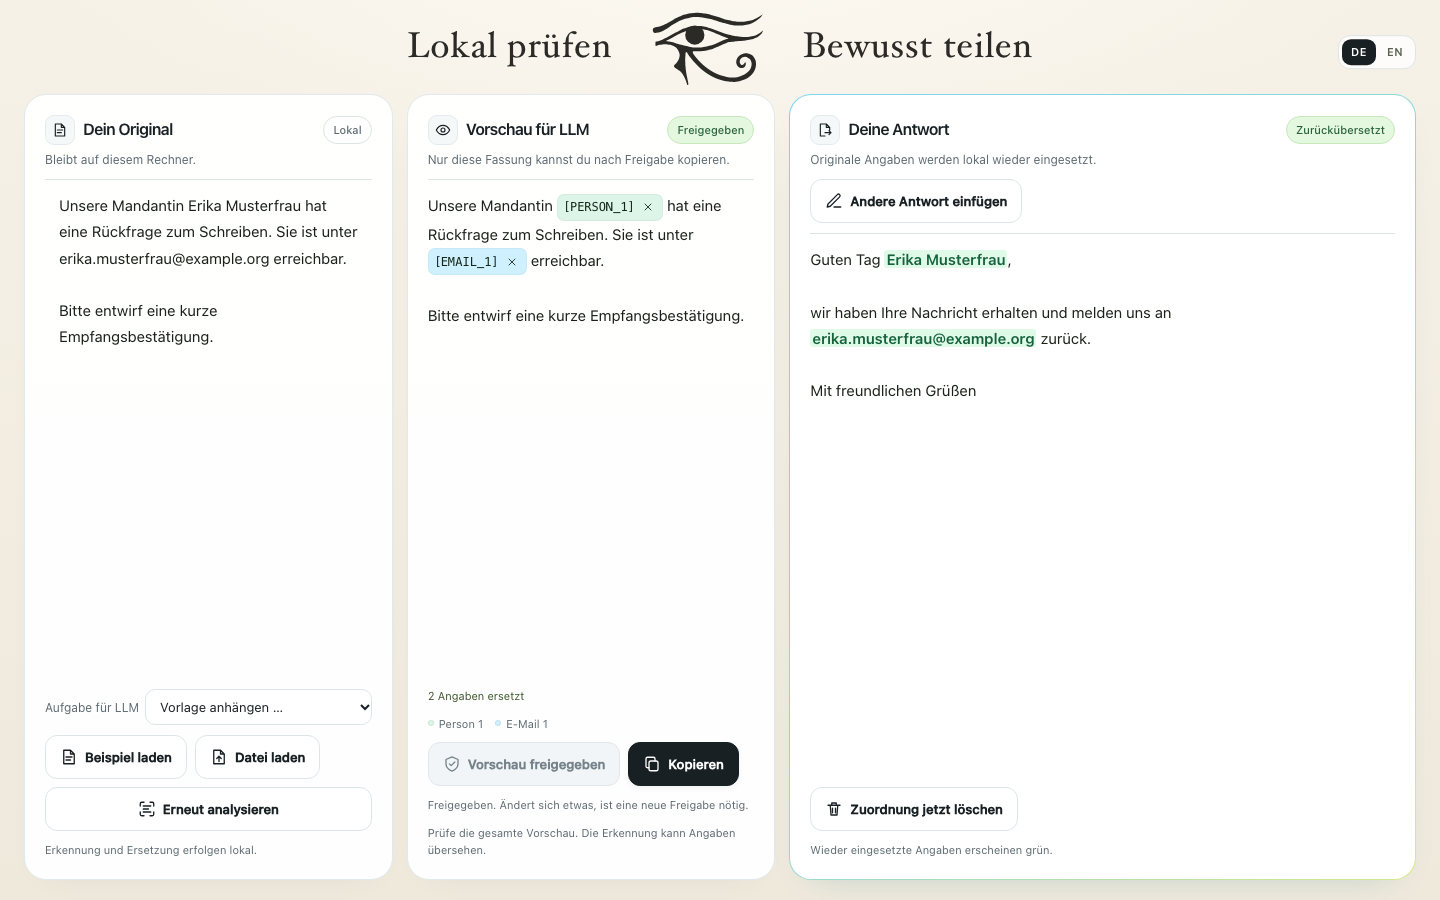
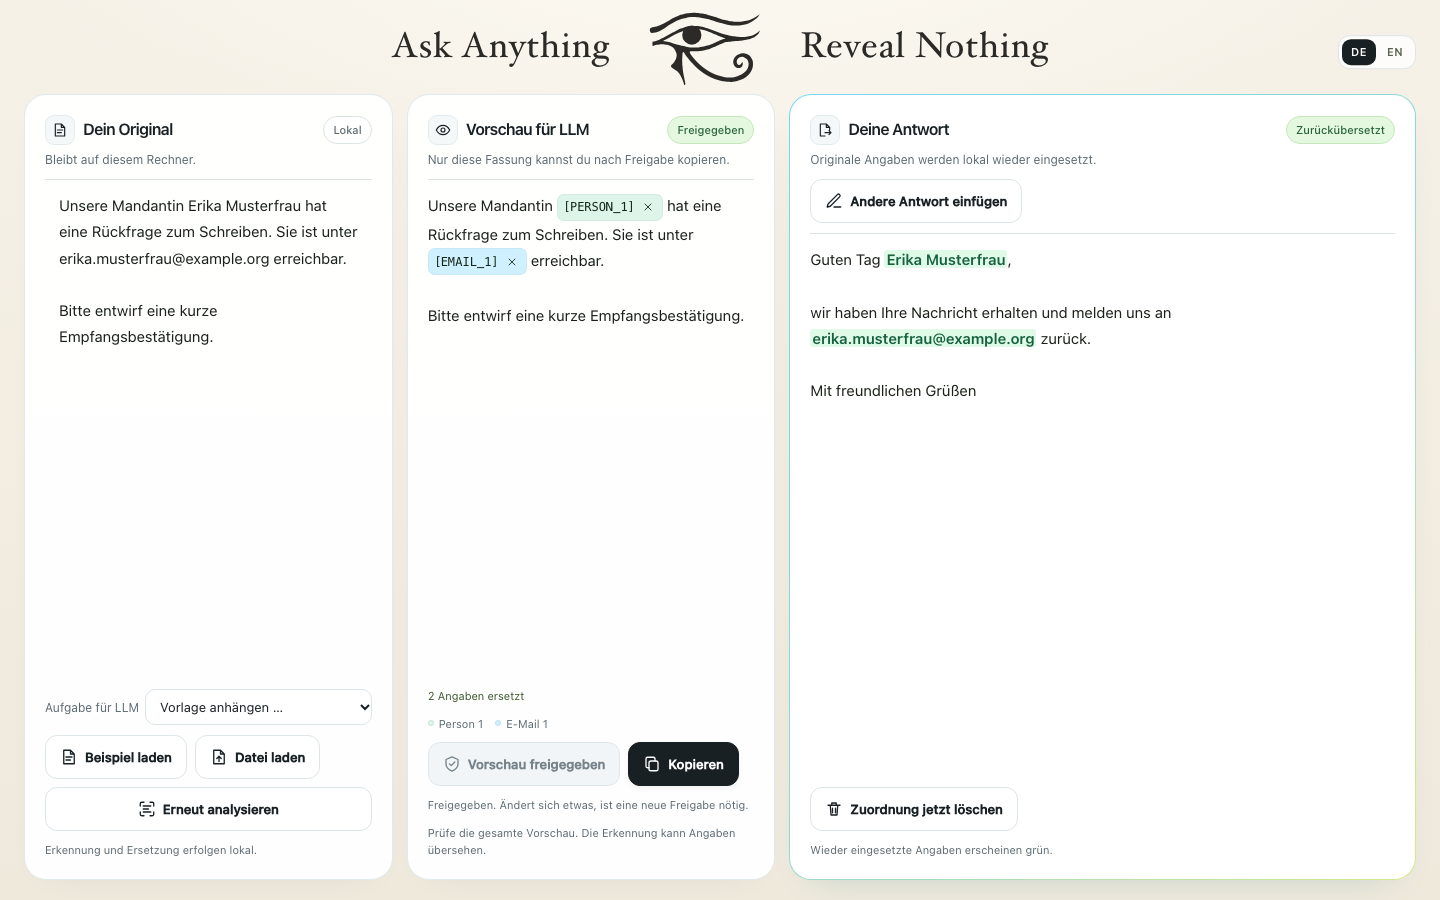
Englische Überschrift in beiden Sprachansichten beibehalten

Changed region(s): [[0.2812, 0.0, 0.5312, 0.0933], [0.5625, 0.0311, 0.7188, 0.0622]]

diff --git a/web/static/index.html b/web/static/index.html
@@ -185,9 +185,9 @@
 <div class="workspace">
   <div class="intro">
     <h1 class="sr-only" data-i18n="pageTitle">Text pseudonymisieren</h1>
-    <p class="headline">
+    <p class="headline" lang="en">
       <!-- Die Wörter bleiben lesbar: Ein Absatz darf laut ARIA keinen eigenen Namen tragen, manche Screenreader übergehen das aria-label. -->
-      <span data-i18n="headlineReview">Lokal prüfen</span>
+      <span>Ask Anything</span>
       <!-- Inhalt von web/assets/horus-auge.svg unverändert eingebettet: Der Server liefert nur diese Datei aus. -->
       <span class="headline-eye" aria-hidden="true"><svg xmlns="http://www.w3.org/2000/svg" viewBox="98 94 834 552" role="img" aria-label="Horus-Auge" data-i18n-aria="eyeLabel">
   <!-- Horus-Auge (Udjat), Tinte über currentColor, nach Pauls Vorlage nachgezeichnet -->
@@ -195,7 +195,7 @@
   <path fill="currentColor" fill-rule="evenodd" d="M125 316 C126.7 310.8 130 316.2 135 315 C140 313.8 148.3 311.3 155 309 C161.7 306.7 168.3 304 175 301 C181.7 298 188.3 294.3 195 291 C201.7 287.7 208.3 284.5 215 281 C221.7 277.5 228.3 273.7 235 270 C241.7 266.3 248.3 262.8 255 259 C261.7 255.2 268.3 250.7 275 247 C281.7 243.3 288.3 240.3 295 237 C301.7 233.7 308.3 230.2 315 227 C321.7 223.8 328.3 220.7 335 218 C341.7 215.3 348.3 213.2 355 211 C361.7 208.8 368.3 206.7 375 205 C381.7 203.3 388.3 202 395 201 C401.7 200 408.3 199.5 415 199 C421.7 198.5 428.3 198 435 198 C441.7 198 448.3 198.5 455 199 C461.7 199.5 468.3 200 475 201 C481.7 202 488.3 203.5 495 205 C501.7 206.5 508.3 208.2 515 210 C521.7 211.8 528.3 213.8 535 216 C541.7 218.2 548.3 220.7 555 223 C561.7 225.3 568.3 227.5 575 230 C581.7 232.5 588.3 235.5 595 238 C601.7 240.5 608.3 242.7 615 245 C621.7 247.3 628.3 249.8 635 252 C641.7 254.2 648.3 256 655 258 C661.7 260 668.3 262.2 675 264 C681.7 265.8 688.3 267.5 695 269 C701.7 270.5 708.3 271.8 715 273 C721.7 274.2 728.3 275 735 276 C741.7 277 748.3 278.3 755 279 C761.7 279.7 768.3 279.7 775 280 C781.7 280.3 788.3 281 795 281 C801.7 281 808.3 280.7 815 280 C821.7 279.3 828.3 278.2 835 277 C841.7 275.8 848.3 274.7 855 273 C861.7 271.3 868.3 269.7 875 267 C881.7 264.3 888.8 260.7 895 257 C901.2 253.3 906.7 249 912 245 C917.3 241 926.3 231.2 927 233 C927.7 234.8 921.3 249 916 256 C910.7 263 901.8 269.8 895 275 C888.2 280.2 881.7 283.7 875 287 C868.3 290.3 861.7 292.8 855 295 C848.3 297.2 841.7 298.5 835 300 C828.3 301.5 821.7 302.8 815 304 C808.3 305.2 801.7 306.2 795 307 C788.3 307.8 781.7 308.3 775 309 C768.3 309.7 761.7 310.5 755 311 C748.3 311.5 741.7 311.5 735 312 C728.3 312.5 721.7 313.3 715 314 C708.3 314.7 701.7 315.2 695 316 C688.3 316.8 681.7 317.5 675 319 C668.3 320.5 661.7 322.7 655 325 C648.3 327.3 641.7 330.2 635 333 C628.3 335.8 621.7 339 615 342 C608.3 345 601.7 348 595 351 C588.3 354 581.7 357.2 575 360 C568.3 362.8 561.7 365.7 555 368 C548.3 370.3 541.7 372.2 535 374 C528.3 375.8 521.7 377.5 515 379 C508.3 380.5 501.7 382 495 383 C488.3 384 481.7 384.3 475 385 C468.3 385.7 461.7 386.7 455 387 C448.3 387.3 441.7 387 435 387 C428.3 387 420.2 386.5 415 387 C409.8 387.5 405.8 387.5 404 390 C402.2 392.5 402.5 397.8 404 402 C405.5 406.2 409.7 410.3 413 415 C416.3 419.7 420 425 424 430 C428 435 432.7 440 437 445 C441.3 450 445.3 455 450 460 C454.7 465 459.8 470 465 475 C470.2 480 475.3 485 481 490 C486.7 495 492.7 500 499 505 C505.3 510 511.8 515 519 520 C526.2 525 533.7 530 542 535 C550.3 540 558.7 545 569 550 C579.3 555 589.3 560 604 565 C618.7 570 641.8 576.8 657 580 C672.2 583.2 682 583.8 695 584 C708 584.2 720.7 584.2 735 581 C749.3 577.8 769.3 570.2 781 565 C792.7 559.8 798.2 555 805 550 C811.8 545 817.3 540 822 535 C826.7 530 830.2 525 833 520 C835.8 515 837.5 510 839 505 C840.5 500 841.5 495 842 490 C842.5 485 842.7 480 842 475 C841.3 470 840.2 464.8 838 460 C835.8 455.2 833 450.2 829 446 C825 441.8 819.7 437.8 814 435 C808.3 432.2 801.3 429.3 795 429 C788.7 428.7 781.7 430.5 776 433 C770.3 435.5 764.7 439.5 761 444 C757.3 448.5 755 454.8 754 460 C753 465.2 753.7 470.7 755 475 C756.3 479.3 759.2 483.5 762 486 C764.8 488.5 768.5 490.3 772 490 C775.5 489.7 779.8 486.7 783 484 C786.2 481.3 788.7 476.3 791 474 C793.3 471.7 795.7 468.3 797 470 C798.3 471.7 799.5 479.2 799 484 C798.5 488.8 796.5 495 794 499 C791.5 503 788 505.7 784 508 C780 510.3 774.8 512.5 770 513 C765.2 513.5 759.5 512.7 755 511 C750.5 509.3 746.7 506.5 743 503 C739.3 499.5 735.5 494.7 733 490 C730.5 485.3 728.8 480 728 475 C727.2 470 727.3 465 728 460 C728.7 455 729.8 450 732 445 C734.2 440 736.8 434.8 741 430 C745.2 425.2 751.3 419.8 757 416 C762.7 412.2 768.7 409.2 775 407 C781.3 404.8 788.3 403.3 795 403 C801.7 402.7 807.5 403.2 815 405 C822.5 406.8 833 410.2 840 414 C847 417.8 852.5 422.8 857 428 C861.5 433.2 864.3 439.7 867 445 C869.7 450.3 871.7 455 873 460 C874.3 465 874.7 470 875 475 C875.3 480 875.3 485 875 490 C874.7 495 874 500 873 505 C872 510 870.8 515 869 520 C867.2 525 864.7 530 862 535 C859.3 540 856.7 545 853 550 C849.3 555 845 560 840 565 C835 570 829.8 575.2 823 580 C816.2 584.8 810 589.2 799 594 C788 598.8 769.3 605.5 757 609 C744.7 612.5 735.3 613.8 725 615 C714.7 616.2 709.2 616.8 695 616 C680.8 615.2 657.5 613.5 640 610 C622.5 606.5 604.2 600 590 595 C575.8 590 565.3 585 555 580 C544.7 575 536.5 570 528 565 C519.5 560 511.3 555 504 550 C496.7 545 490.5 540 484 535 C477.5 530 470.8 525 465 520 C459.2 515 454.2 510 449 505 C443.8 500 438.8 495 434 490 C429.2 485 424.7 480 420 475 C415.3 470 410.3 465 406 460 C401.7 455 398 450 394 445 C390 440 385.8 435 382 430 C378.2 425 374.3 419.8 371 415 C367.7 410.2 364.5 404.7 362 401 C359.5 397.3 358 393.7 356 393 C354 392.3 351.3 393.3 350 397 C348.7 400.7 348.5 409.5 348 415 C347.5 420.5 347.3 425 347 430 C346.7 435 346.2 440 346 445 C345.8 450 345.8 455 346 460 C346.2 465 346.8 470 347 475 C347.2 480 346.7 485 347 490 C347.3 495 348.5 500 349 505 C349.5 510 349.5 515 350 520 C350.5 525 351.3 530 352 535 C352.7 540 353.2 545 354 550 C354.8 555 356 560 357 565 C358 570 359 575 360 580 C361 585 362 590 363 595 C364 600 365 605.2 366 610 C367 614.8 368.5 619.8 369 624 C369.5 628.2 369.5 632.3 369 635 C368.5 637.7 367.3 639.7 366 640 C364.7 640.3 362.5 639.5 361 637 C359.5 634.5 358.5 629.5 357 625 C355.5 620.5 353.8 615 352 610 C350.2 605 348.2 600 346 595 C343.8 590 341.5 585 339 580 C336.5 575 334 570 331 565 C328 560 325 555 321 550 C317 545 312.7 539.8 307 535 C301.3 530.2 293.2 525 287 521 C280.8 517 274.2 514.7 270 511 C265.8 507.3 262.5 502.8 262 499 C261.5 495.2 263.8 492 267 488 C270.2 484 277 479.7 281 475 C285 470.3 288 465 291 460 C294 455 297 450 299 445 C301 440 302 435 303 430 C304 425 305.2 420 305 415 C304.8 410 303.5 405 302 400 C300.5 395 298.5 390 296 385 C293.5 380 290.5 374.5 287 370 C283.5 365.5 280.3 362 275 358 C269.7 354 261.7 349.2 255 346 C248.3 342.8 241.7 340.7 235 339 C228.3 337.3 221.7 336.7 215 336 C208.3 335.3 201.7 335 195 335 C188.3 335 181.7 335.3 175 336 C168.3 336.7 161.2 337.7 155 339 C148.8 340.3 143 342.8 138 344 C133 345.2 127.2 350.7 125 346 C122.8 341.3 123.3 321.2 125 316 Z M205 310 C205 308.5 210 306.8 215 304 C220 301.2 228.3 296.5 235 293 C241.7 289.5 248.3 286.5 255 283 C261.7 279.5 268.3 275.7 275 272 C281.7 268.3 288.3 264.5 295 261 C301.7 257.5 308.3 254 315 251 C321.7 248 328.3 245.5 335 243 C341.7 240.5 346.7 238.3 355 236 C363.3 233.7 375 230.8 385 229 C395 227.2 405 226.2 415 225 C425 223.8 435 222.5 445 222 C455 221.5 466.7 221.3 475 222 C483.3 222.7 488.3 224.5 495 226 C501.7 227.5 508.3 229 515 231 C521.7 233 528.3 235.5 535 238 C541.7 240.5 548.3 243.3 555 246 C561.7 248.7 568.3 251.2 575 254 C581.7 256.8 588.3 260.2 595 263 C601.7 265.8 608.3 268.3 615 271 C621.7 273.7 628.3 276.3 635 279 C641.7 281.7 649.5 284.7 655 287 C660.5 289.3 668 291.5 668 293 C668 294.5 660.5 294.2 655 296 C649.5 297.8 641.7 301.2 635 304 C628.3 306.8 621.7 310 615 313 C608.3 316 601.7 319 595 322 C588.3 325 581.7 328.2 575 331 C568.3 333.8 561.7 336.7 555 339 C548.3 341.3 541.7 343.2 535 345 C528.3 346.8 521.7 348.5 515 350 C508.3 351.5 501.7 352.8 495 354 C488.3 355.2 481.7 356.2 475 357 C468.3 357.8 461.7 358.5 455 359 C448.3 359.5 441.7 360 435 360 C428.3 360 421.7 359.5 415 359 C408.3 358.5 401.7 357.8 395 357 C388.3 356.2 381.7 355.3 375 354 C368.3 352.7 361.7 350.7 355 349 C348.3 347.3 341.7 345.7 335 344 C328.3 342.3 321.7 340.8 315 339 C308.3 337.2 301.7 335 295 333 C288.3 331 281.7 329 275 327 C268.3 325 261.7 322.8 255 321 C248.3 319.2 241.7 317.3 235 316 C228.3 314.7 220 314 215 313 C210 312 205 311.5 205 310 Z"/>
   <circle fill="currentColor" cx="418" cy="266" r="72"/>
 </svg></span>
-      <span data-i18n="headlineShare">Bewusst teilen</span>
+      <span>Reveal Nothing</span>
     </p>
     <div class="lang-switch" role="group" aria-label="Sprache" data-i18n-aria="langLabel">
       <button type="button" id="langDe" data-lang="de" lang="de" aria-pressed="true">DE</button>
@@ -271,8 +271,6 @@ const TYPES = ["PERSON", "FIRMA", "ADRESSE", "ORT", "EMAIL", "TELEFON", "IBAN", 
 // Nicht hier: Platzhalter wie [PERSON_1], ihre Typen und alle Meldungen aus dem Kern. Die bleiben in beiden Sprachen gleich.
 const I18N = {
   de: {
-    headlineReview: "Lokal prüfen",
-    headlineShare: "Bewusst teilen",
     fakeBand: "Testmodus: Attrappe aktiv. Keine vollständige Erkennung sensibler Angaben.",
     pageTitle: "Text pseudonymisieren",
     eyeLabel: "Horus-Auge",
@@ -353,8 +351,6 @@ const I18N = {
     forgotten: "Zuordnung gelöscht. Diese Platzhalter lassen sich nicht mehr zurückübersetzen.",
   },
   en: {
-    headlineReview: "Review locally",
-    headlineShare: "Share deliberately",
     fakeBand: "Test mode: stand-in core active. Sensitive details are not fully detected.",
     pageTitle: "Pseudonymize text",
     eyeLabel: "Eye of Horus",

diff --git a/web/test_ui.py b/web/test_ui.py
@@ -125,10 +125,13 @@ def main() -> None:
         lang_page = context.new_page()
         lang_page.on("pageerror", lambda error: errors.append(str(error)))
         lang_page.goto(url)
+        headline = lang_page.locator(".headline > span:not(.headline-eye)")
+        expect(headline).to_have_text(["Ask Anything", "Reveal Nothing"])
         expect(lang_page.locator("#langDe")).to_have_attribute("aria-pressed", "true")
         lang_page.locator("#langEn").click()
         expect(lang_page.locator("#langEn")).to_have_attribute("aria-pressed", "true")
         assert lang_page.evaluate("document.documentElement.lang") == "en"
+        expect(headline).to_have_text(["Ask Anything", "Reveal Nothing"])
         expect(lang_page.locator("#analyzeLabel")).to_have_text("Analyze text")
         lang_page.locator("#btnExample").click()
         assert lang_page.locator("#original").input_value().startswith("From: Emily Hartwell")

diff --git a/web/README.md b/web/README.md
@@ -14,7 +14,7 @@ Danach http://127.0.0.1:8000 öffnen. Das erste Analysieren lädt das Modell und
 
 ## Arbeitsoberfläche
 
-Layout A ist direkt in `web/static/index.html` eingebaut: drei flexible Spalten mit hellen Arbeitsflächen und einem feinen Farbrand. Auf dem Desktop wird die genutzte Spalte durch Hover, Klick oder Tastaturfokus breiter. Beim Schreiben in einem Eingabefeld und bei markiertem Text ist der Hoverwechsel ausgesetzt. Auf Mobilgeräten bleiben die Bereiche untereinander. Die Kopfzeile zeigt „Lokal prüfen“, das Horusauge und „Bewusst teilen“. Die mittlere Spalte heißt „Vorschau für LLM“. Die Legende erklärt erkannte Datentypen und markierte unsichere Stellen. Die Oberfläche verwendet den echten Kern, sofern sie nicht ausdrücklich mit `HARNESS_FAKE=1` gestartet wird.
+Layout A ist direkt in `web/static/index.html` eingebaut: drei flexible Spalten mit hellen Arbeitsflächen und einem feinen Farbrand. Auf dem Desktop wird die genutzte Spalte durch Hover, Klick oder Tastaturfokus breiter. Beim Schreiben in einem Eingabefeld und bei markiertem Text ist der Hoverwechsel ausgesetzt. Auf Mobilgeräten bleiben die Bereiche untereinander. Die englische Überschrift „Ask Anything, Reveal Nothing“ steht mit dem Horusauge in der Kopfzeile. Die mittlere Spalte heißt „Vorschau für LLM“. Die Legende erklärt erkannte Datentypen und markierte unsichere Stellen. Die Oberfläche verwendet den echten Kern, sofern sie nicht ausdrücklich mit `HARNESS_FAKE=1` gestartet wird.
 
 ![LP7 mit erfundenem Original, freigegebener Vorschau und lokal zurückübersetzter Beispielantwort](assets/lp7-ablauf.png)
 
